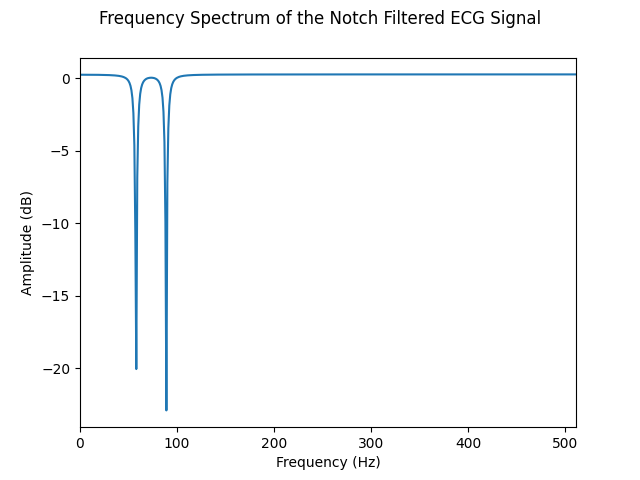
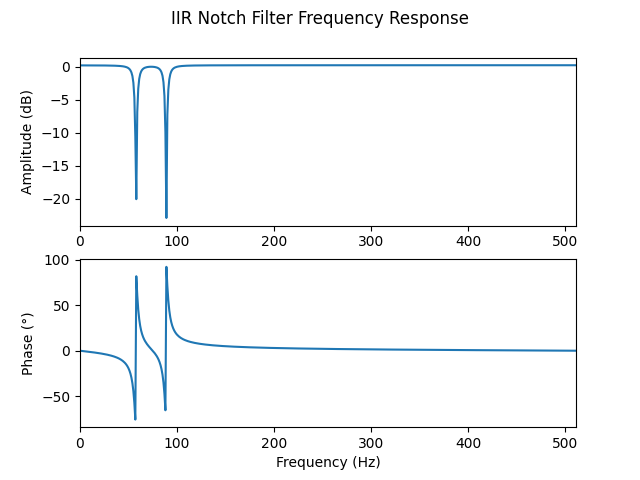
Added phase response

diff --git a/signalPlots.py b/signalPlots.py
@@ -78,15 +78,25 @@ def plotIIRNotchECGSpectrum(notch_frequency, notch_freq_data):
 
 
 def plotIIRNotchFilterResponse(numuerator, denominator, f_samp):
-    """Plot the frequency response of the window filter"""
+    """Plot and return the frequency response (magnitude and phase) of the IIR notch filter"""
 
-    freq, response = freqz(numuerator, denominator, fs=f_samp) # Calculate the frequency response
-    IIRNotchFilterResponse = plt.figure()
-    plt.plot(freq, 20 * np.log10(abs(response))) # Plot in dB vs Hz
+    # Calculate the frequency response
+    freq, response = freqz(numuerator, denominator, fs=f_samp)
+
+    # Create plot
+    IIRNotchFilterResponse, (IIR_ax1, IIR_ax2) = plt.subplots(2, 1)
+    plt.suptitle("IIR Notch Filter Frequency Response")
     plt.xlabel("Frequency (Hz)")
-    plt.ylabel("Amplitude (dB)")
-    plt.suptitle("Frequency Spectrum of the Notch Filtered ECG Signal")
-    plt.xlim(freq[0], freq[-1]) # Limit the x axis from 0 to Nyquist frequency
+
+    # Plot magnitude response
+    IIR_ax1.plot(freq, 20 * np.log10(abs(response))) # Plot magnitude in dB vs Hz
+    IIR_ax1.set_ylabel("Amplitude (dB)")
+    IIR_ax1.set_xlim(freq[0], freq[-1])  # Limit the x axis from 0 to Nyquist frequency
+
+    # Plot phase response
+    IIR_ax2.plot(freq, np.angle(response, deg=True)) # Plot phase in dB vs degrees
+    IIR_ax2.set_ylabel("Phase (°)")
+    IIR_ax2.set_xlim(freq[0], freq[-1])  # Limit the x axis from 0 to Nyquist frequency
 
     return IIRNotchFilterResponse
 
@@ -110,7 +120,7 @@ def plotWindowedECG(samples, time):
 
 
 def plotWindowedECGSpectrum(frequency, frequency_data):
-    """Calculate and plot the indow filtered ECG frequency spectrum"""
+    """Calculate and plot the window filtered ECG frequency spectrum"""
 
     WindowedECGSpectrum = plt.figure()
     plt.plot(frequency, 20 * np.log10(abs(frequency_data)))
@@ -124,14 +134,24 @@ def plotWindowedECGSpectrum(frequency, frequency_data):
 
 
 def plotWindowFilterResponse(filter_array, f_samp):
-    """Plot the frequency response of the window filter"""
+     """Plot and return the frequency response (magnitude and phase) of the window filter"""
 
-    freq, response = freqz(filter_array, fs=f_samp) # Calculate the frequency response
-    WindowFilterResponse = plt.figure()
-    plt.plot(freq, 20 * np.log10(abs(response))) # Plot in dB vs Hz
-    plt.xlabel("Frequency (Hz)")
-    plt.ylabel("Amplitude (dB)")
-    plt.suptitle("Window Filter Frequency Response")
-    plt.xlim(freq[0], freq[-1]) # Limit the x axis from 0 to nyquist frequency
+     # Calculate the frequency response
+     freq, response = freqz(filter_array, fs=f_samp)
 
-    return WindowFilterResponse
+     # Create plot
+     WindowFilterResponse, (window_ax1, window_ax2) = plt.subplots(2, 1)
+     plt.suptitle("Window Filter Frequency Response")
+     plt.xlabel("Frequency (Hz)")
+
+     # Plot magnitude response
+     window_ax1.plot(freq, 20 * np.log10(abs(response)))  # Plot magnitude in dB vs Hz
+     window_ax1.set_ylabel("Amplitude (dB)")
+     window_ax1.set_xlim(freq[0], freq[-1])  # Limit the x axis from 0 to Nyquist frequency
+
+     # Plot phase response
+     window_ax2.plot(freq, np.angle(response, deg=True))  # Plot phase in dB vs degrees
+     window_ax2.set_ylabel("Phase (°)")
+     window_ax2.set_xlim(freq[0], freq[-1])  # Limit the x axis from 0 to Nyquist frequency
+
+     return WindowFilterResponse
